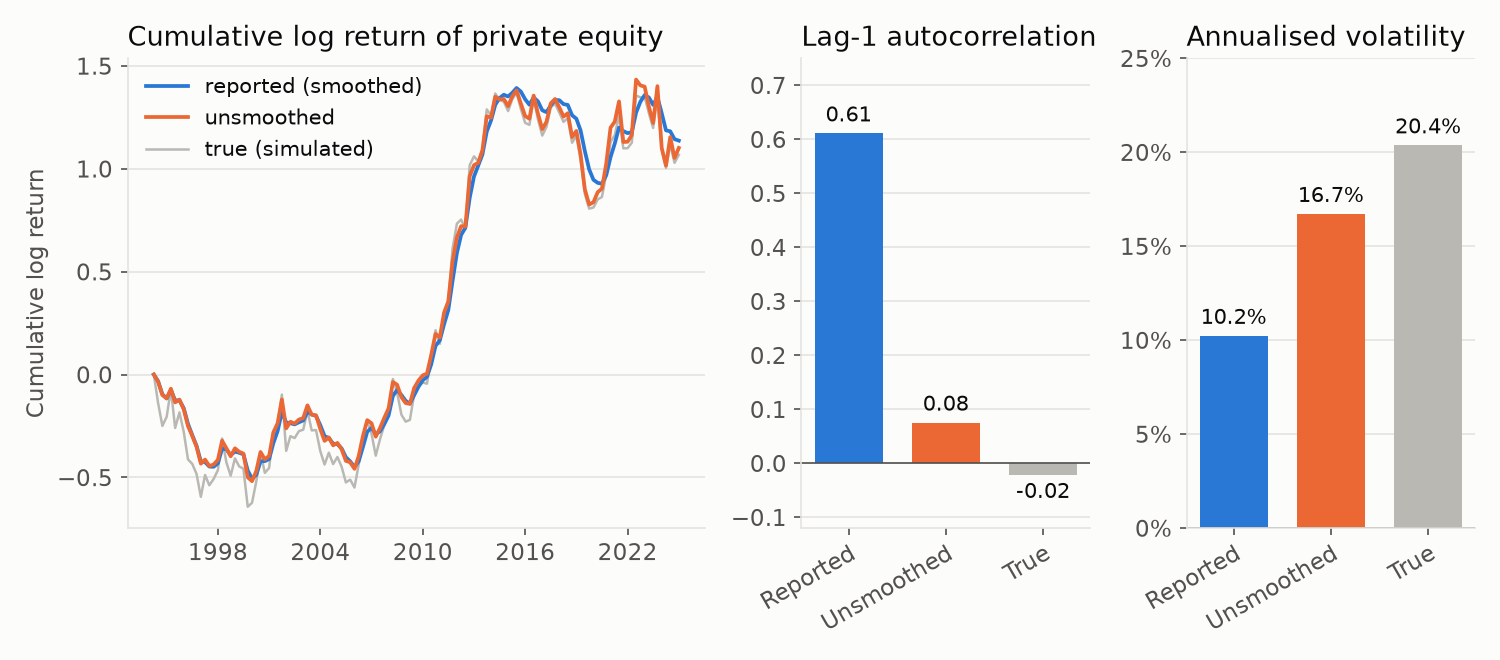
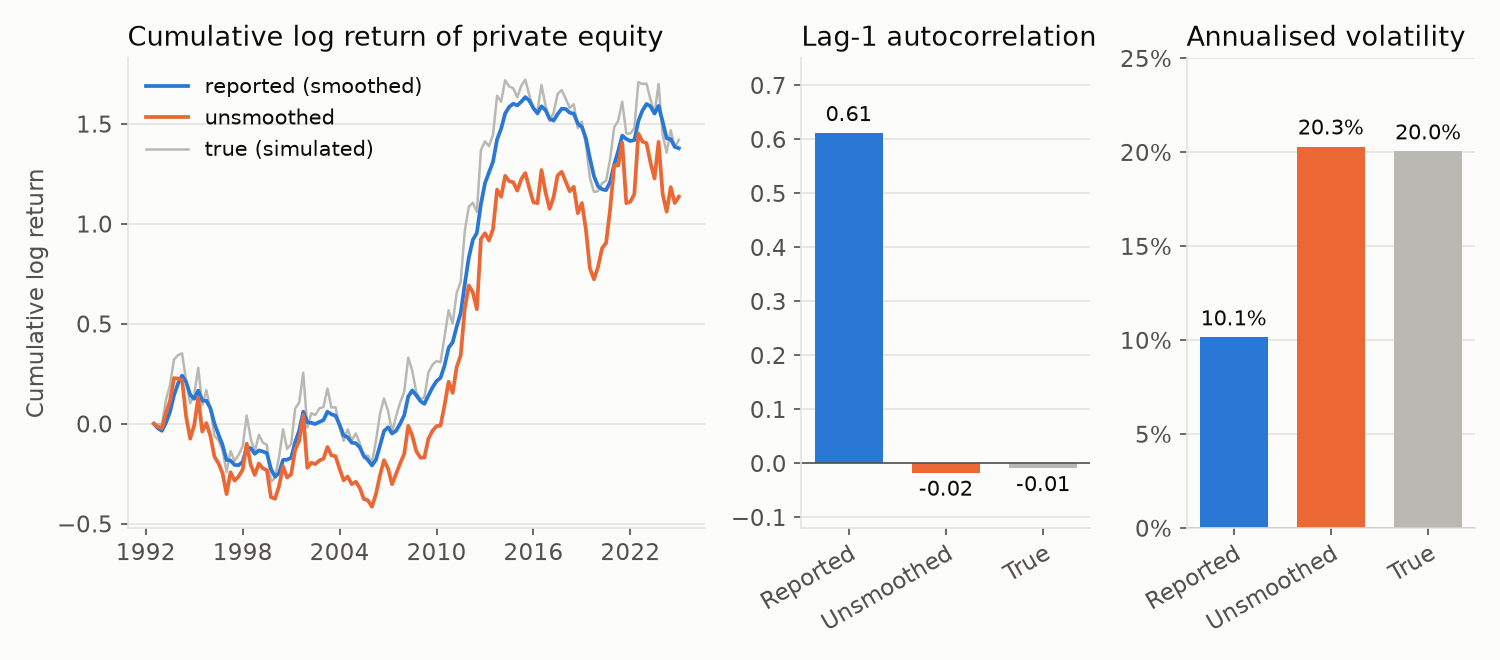
Fix unsmoothing example for current QIS defaults

diff --git a/examples/docs/universe_data_and_unsmoothing.py b/examples/docs/universe_data_and_unsmoothing.py
@@ -49,7 +49,23 @@ COPY_DEFAULTS = {'freq': 'QE', 'unsmooth_span': 40, 'warmup_period': 8,
 RETURNS_DEFAULTS = {'returns_freq': 'ME', 'demean': True, 'drop_first': True,
                     'is_first_zero': False, 'is_log_returns': True, 'span': 52,
                     'factor_return_types': None}
-QIS_DEFAULTS = {'ar_order': 2, 'min_value_for_beta': -0.25}
+# Qualified upstream default profiles. OP deliberately forwards these defaults.
+QIS_PROFILES = {
+    (2, -0.25, True): {
+        'leading_quarters': 17, 'nav_start': '1994-03-31', 'return_start': '1994-06-30',
+        'return_count': 123, 'autocorrelations': [0.61, 0.08],
+        'volatilities': [0.102, 0.167], 'true_volatility': 0.204,
+        'true_autocorrelation': -0.02, 'volatility_ratio': 0.50,
+        'beta_range': [0.03, 0.66], 'seed3_volatility': 0.164, 'seed3_true_volatility': 0.195,
+    },
+    (1, 0.0, False): {
+        'leading_quarters': 10, 'nav_start': '1992-06-30', 'return_start': '1992-09-30',
+        'return_count': 130, 'autocorrelations': [0.61, -0.02],
+        'volatilities': [0.101, 0.203], 'true_volatility': 0.200,
+        'true_autocorrelation': -0.01, 'volatility_ratio': 0.51,
+        'beta_range': [0.31, 0.75], 'seed3_volatility': 0.207, 'seed3_true_volatility': 0.195,
+    },
+}
 RETURNS_IN_ESTIMATOR = ('optimalportfolios.covar_estimation.ewma_covar_estimator.'
                         'compute_returns_from_prices')
 
@@ -276,12 +292,19 @@ def main() -> None:
     assert unsmoothed.group_loadings_level1 is level1
     assert unsmoothed.group_loadings_level2 is level2
     assert unsmoothed.metadata_fields is op.MetadataField and unsmoothed.pe_asset_id == 'PE'
-    # The replaced column is the qis NAV: missing for 17 quarters, 1.0 at 1994-03-31, then
-    # compounded from the first unsmoothed return at 1994-06-30.
+    # QIS owns the lag order, clipping floor and second coefficient smoother. Check both
+    # supported upstream profiles explicitly instead of assuming its old AR(2) default.
+    qis_defaults = defaults(qis.compute_ar_unsmoothed_prices)
+    profile_key = tuple(qis_defaults[name] for name in (
+        'ar_order', 'min_value_for_beta', 'apply_ewma_mean_smoother'))
+    assert profile_key in QIS_PROFILES, f'Unqualified QIS defaults: {profile_key}'
+    profile = QIS_PROFILES[profile_key]
+    leading = profile['leading_quarters']
     pe = unsmoothed.prices['PE']
-    assert pe.iloc[:17].isna().all() and pe.first_valid_index() == pd.Timestamp('1994-03-31')
-    assert pe.loc['1994-03-31'] == 1.0 and pe.iloc[17:].notna().all()
-    # The Pitfall: the wrapper does not pass ar_order, so qis applies its default AR(2).
+    assert pe.iloc[:leading].isna().all()
+    assert pe.first_valid_index() == pd.Timestamp(profile['nav_start'])
+    assert pe.loc[profile['nav_start']] == 1.0 and pe.iloc[leading:].notna().all()
+    # The wrapper must match the installed default order and differ from the alternative.
     ar2, _, _, _ = qis.compute_ar_unsmoothed_prices(
         prices=prices[['PE']], ar_order=2, freq='QE', span=40,
         mean_adj_type=qis.MeanAdjType.EWMA, warmup_period=8, max_value_for_beta=0.75,
@@ -290,16 +313,15 @@ def main() -> None:
         prices=prices[['PE']], ar_order=1, freq='QE', span=40,
         mean_adj_type=qis.MeanAdjType.EWMA, warmup_period=8, max_value_for_beta=0.75,
         is_log_returns=True)
-    assert pe.equals(ar2['PE'].reindex(prices.index).ffill())
-    assert not pe.equals(ar1['PE'].reindex(prices.index).ffill())
-    common = pe.index[pe.notna() & ar1['PE'].reindex(prices.index).notna()]
-    assert np.abs(np.log(pe[common] / ar1['PE'][common])).max() > 0.01
+    matching, alternative = (ar2, ar1) if profile_key[0] == 2 else (ar1, ar2)
+    assert pe.equals(matching['PE'].reindex(prices.index).ffill())
+    assert not pe.equals(alternative['PE'].reindex(prices.index).ffill())
+    common = pe.index[pe.notna() & alternative['PE'].reindex(prices.index).notna()]
+    assert np.abs(np.log(pe[common] / alternative['PE'][common])).max() > 0.01
     # The wrapper's defaults, the qis defaults it leaves in place, and pe_asset_id unread.
     copy_defaults = defaults(op.copy_universe_data_with_unsmoothed_prices)
     assert {name: copy_defaults[name] for name in COPY_DEFAULTS} == COPY_DEFAULTS
     assert copy_defaults['mean_adj_type'] == qis.MeanAdjType.EWMA
-    qis_defaults = defaults(qis.compute_ar_unsmoothed_prices)
-    assert {name: qis_defaults[name] for name in QIS_DEFAULTS} == QIS_DEFAULTS
     unnamed = op.UniverseData(prices=prices, metadata=metadata)
     assert unnamed.pe_asset_id is None
     assert op.copy_universe_data_with_unsmoothed_prices(unnamed, flag).prices.equals(
@@ -369,7 +391,8 @@ def main() -> None:
         'annualised volatility': [before.loc[window, 'PE'].std() * 2.0,
                                   after.loc[window, 'PE'].std() * 2.0]},
         index=['smoothed', 'unsmoothed'])
-    assert len(window) == 123 and window[0] == pd.Timestamp('1994-06-30')
+    assert len(window) == profile['return_count']
+    assert window[0] == pd.Timestamp(profile['return_start'])
     assert before[others].equals(after[others])
     # Reference: numpy log differences of the price arrays, from the same first price.
     rows = slice(prices.index.get_loc(window[0]) - 1, None)
@@ -383,23 +406,26 @@ def main() -> None:
         'annualised volatility': [annualised_vol(x_before), annualised_vol(x_after)]},
         index=['smoothed', 'unsmoothed'])
     assert np.allclose(stats.to_numpy(), reference.to_numpy(), atol=1e-12)
-    assert stats.round(2)['lag-1 autocorrelation'].tolist() == [0.61, 0.08]
-    assert stats.round(3)['annualised volatility'].tolist() == [0.102, 0.167]
-    assert round(annualised_vol(x_true), 3) == 0.204
-    assert round(lag1_autocorrelation(x_true), 2) == -0.02
+    assert stats.round(2)['lag-1 autocorrelation'].tolist() == profile['autocorrelations']
+    assert stats.round(3)['annualised volatility'].tolist() == profile['volatilities']
+    assert round(annualised_vol(x_true), 3) == profile['true_volatility']
+    assert round(lag1_autocorrelation(x_true), 2) == profile['true_autocorrelation']
     # The Insight: reported volatility is half the true one in the sample, as for phi = 0.6,
     # so the reported variance is about a quarter of the true one.
-    assert round(annualised_vol(x_before) / annualised_vol(x_true), 2) == 0.50
+    assert round(annualised_vol(x_before) / annualised_vol(x_true), 2) == \
+        profile['volatility_ratio']
     assert round((annualised_vol(x_true) / annualised_vol(x_before)) ** 2) == 4
     # The coefficient sum that qis estimates stays inside its clipping bounds.
     _, _, theta_sum, _ = qis.compute_ar_unsmoothed_prices(prices=prices[['PE']])
-    assert round(theta_sum['PE'].min(), 2) == 0.03 and round(theta_sum['PE'].max(), 2) == 0.66
-    # Another seed also leaves unsmoothed volatility below the true one.
+    assert [round(theta_sum['PE'].min(), 2), round(theta_sum['PE'].max(), 2)] == \
+        profile['beta_range']
+    # A second seed shows estimation error; the current AR(1) profile can overshoot true vol.
     _, other_unsmoothed, other_true = example_universes(seed=3)
     other_after = op.compute_returns_from_prices(other_unsmoothed.prices, returns_freq='QE',
                                                  demean=False)['PE'].dropna()
-    assert round(annualised_vol(other_after.to_numpy()), 3) == 0.164
-    assert round(annualised_vol(other_true.loc[other_after.index, 'PE'].to_numpy()), 3) == 0.195
+    assert round(annualised_vol(other_after.to_numpy()), 3) == profile['seed3_volatility']
+    assert round(annualised_vol(other_true.loc[other_after.index, 'PE'].to_numpy()), 3) == \
+        profile['seed3_true_volatility']
 
     # compute_returns_from_prices with its EWMA demeaning: lambda times the deviation from
     # the previous mean, the first zero row dropped.

diff --git a/docs/universe_data_and_unsmoothing.md b/docs/universe_data_and_unsmoothing.md
@@ -204,8 +204,11 @@ passes six of its arguments to qis:
 | `max_value_for_beta` | `0.75` | `max_value_for_beta`, the upper bound of the coefficient sum |
 | `is_log_returns` | `True` | `is_log_returns` |
 
-Every other qis argument keeps its qis default, among them `ar_order=2` and
-`min_value_for_beta=-0.25`.
+Every other qis argument keeps its installed qis default. The current profile uses
+`ar_order=1`, `min_value_for_beta=0.0` and no second coefficient smoother. Earlier
+supported QIS installations use AR(2), a -0.25 clipping floor and coefficient smoothing.
+The canonical script checks both profiles against explicit-order QIS calls and independent
+return statistics; the wrapper does not select or override either profile.
 
 - **Flagged columns.** Each is replaced by the NAV that qis returns: missing until the first
   identified coefficient, 1.0 on the last date before the first unsmoothed return, then compounded
@@ -307,16 +310,17 @@ unsmoothed = op.copy_universe_data_with_unsmoothed_prices(universe_data=universe
 ```
 
 The government-bond, credit and equity prices of the copy equal the originals bit for bit, and
-the copy holds the same metadata and loading objects. The private-equity column is missing for the
-first 17 quarters, equals 1.0 on 31 March 1994 and compounds the unsmoothed returns from
-30 June 1994. Over the sample, the coefficient sum that qis estimates stays between 0.03 and
-0.66, inside its bounds. The rolling means and coefficient filters start from zero;
-warmup estimates are excluded before coefficient smoothing.
+the copy holds the same metadata and loading objects. With the current AR(1) profile, the
+private-equity column is missing for the first 10 quarters, equals 1.0 on 30 June 1992 and
+compounds the unsmoothed returns from 30 September 1992. The estimated coefficient stays
+between 0.31 and 0.75, inside its bounds. The EWMA mean starts from zero and warmup
+coefficients remain unavailable. The earlier AR(2) profile starts its NAV on 31 March 1994
+and its returns on 30 June 1994; the simulation seed and OP transformation defaults are identical.
 
-Over the 123 quarters from June 1994, the reported series has a lag-1 autocorrelation of 0.61
-and a volatility of 10.2%. The unsmoothed series has an autocorrelation of 0.08 and a volatility
-of 16.7%, compared with −0.02 and 20.4% for the simulated true returns. The correction reduces
-serial dependence and recovers part of the suppressed volatility:
+Over the 130 quarters from September 1992, the reported series has a lag-1 autocorrelation of 0.61
+and a volatility of 10.1%. The current AR(1) unsmoothed series has an autocorrelation of -0.02
+and a volatility of 20.3%, compared with -0.01 and 20.0% for the simulated true returns.
+The correction reduces serial dependence and slightly overshoots the latent volatility:
 
 ```python
 before = op.compute_returns_from_prices(universe.prices, returns_freq='QE', demean=False)
@@ -330,10 +334,10 @@ stats = pd.DataFrame({
     index=['smoothed', 'unsmoothed'])
 ```
 
-![Left: the cumulative log returns of private equity from March 1994; the reported path is visibly
+![Left: the cumulative log returns of private equity from June 1992; the reported path is visibly
 smoother than the unsmoothed path. Middle: the lag-1
-autocorrelation falls from 0.61 reported to 0.08 unsmoothed, against -0.02 for the true returns.
-Right: the annualised volatility rises from 10.2% to 16.7%, against 20.4% for the true
+autocorrelation falls from 0.61 reported to -0.02 unsmoothed, against -0.01 for the true returns.
+Right: the annualised volatility rises from 10.1% to 20.3%, against 20.0% for the true
 returns.](images/unsmoothing_autocorrelation.png)
 
 *Figure: the reported, unsmoothed and simulated true returns of the private-equity column of the
@@ -342,14 +346,14 @@ example, as cumulative paths and as lag-1 autocorrelation and annualised volatil
 its provenance.*
 
 > **Insight.** With $\phi = 0.6$, the volatility factor $\sqrt{(1 - \phi)/(1 + \phi)}$ of
-> Proposition 1 is exactly one half, and the sample agrees: 10.2% reported against 20.4% true. A
+> Proposition 1 is exactly one half, and the sample is close: 10.1% reported against 20.0% true. A
 > covariance estimated on the reported returns understates the variance of the private asset about
 > fourfold, although smoothing leaves its expected return unchanged.
 
 The loadings then feed an allocation. The level-1 loadings give two asset classes of two assets
 each, so equal group budgets give every asset a quarter of the risk. The level-2 loadings cap the
 illiquid group at 15% of capital. The same risk-budgeting problem is solved on the EWMA
-covariance of each universe, estimated over the common sample from March 1994:
+covariance of each universe, estimated over the common sample from June 1992:
 
 ```python
 budgets = op.compute_group_risk_budgets(groups=universe.group_loadings_level1.idxmax(axis=1))
@@ -394,10 +398,11 @@ The four objects are exported at the package root:
   construction of the EWMA covariance estimators.
 
 > **Pitfall.** The docstring of `copy_universe_data_with_unsmoothed_prices` promises AR(1)
-> unsmoothing, but the function does not pass `ar_order`, and `qis.compute_ar_unsmoothed_prices`
-> defaults to `ar_order=2`: the copy is unsmoothed with a rolling AR(2) filter. The example checks
-> that its column equals the qis AR(2) result and differs from the AR(1) result. For AR(1), call
-> `qis.compute_ar_unsmoothed_prices` with `ar_order=1` and build the universe from its NAVs.
+> unsmoothing, but the function does not pass `ar_order`. It inherits the installed default of
+> `qis.compute_ar_unsmoothed_prices`: currently AR(1), previously AR(2). The example verifies
+> agreement with that explicit order and disagreement with the alternative. To fix a study's
+> lag order, call `qis.compute_ar_unsmoothed_prices` with an explicit `ar_order` and build the
+> universe from its NAVs.
 
 ## Interpretation and limitations
 
@@ -408,10 +413,10 @@ The four objects are exported at the package root:
   seasonal reappraisal. qis estimates the smoothing from the autocorrelation of the reported
   series, so all serial correlation is treated as smoothing, including any in the true returns.
 - **Estimation noise and initialization.** The coefficients come from a rolling EWMA regression
-  with a span of 40 quarters and zero-seeded coefficient smoothing after warmup. The estimated
-  correction does not recover the latent series exactly: with seed 19 its volatility is 16.7%
-  against a true 20.4%; with seed 3 it is 16.4% against a true 19.5%.
-- **Shorter history.** The unsmoothed column is missing for the first 17 quarters of the example,
+  with a span of 40 quarters. The current AR(1) profile does not apply a second coefficient
+  smoother. The correction does not recover the latent series exactly: with seed 19 its volatility
+  is 20.3% against a true 20.0%; with seed 3 it is 20.7% against a true 19.5%.
+- **Shorter history.** The unsmoothed column is missing for the first 10 quarters of this profile,
   and the example's covariance starts after them. Its level starts at 1.0, so only its returns are
   comparable with the original.
 - **Finer grids.** On a monthly panel with the default `freq='QE'`, the unsmoothed column changes

diff --git a/CHANGELOG.md b/CHANGELOG.md
@@ -7,6 +7,11 @@ and the project follows [Semantic Versioning](https://semver.org/spec/v2.0.0.htm
 
 ## [Unreleased]
 
+- Repair the universe/unsmoothing example for the current QIS AR(1) default while
+  retaining explicit regression checks for the supported earlier AR(2) profile.
+  Refresh the article and registered teaching exhibit together; OP transformation
+  defaults, algorithms and simulation inputs remain unchanged.
+
 ## [9.2.0] - 2026-10-29
 
 - Add an explicit matched CORRIDOR MIQP primary policy with lazy, independently
